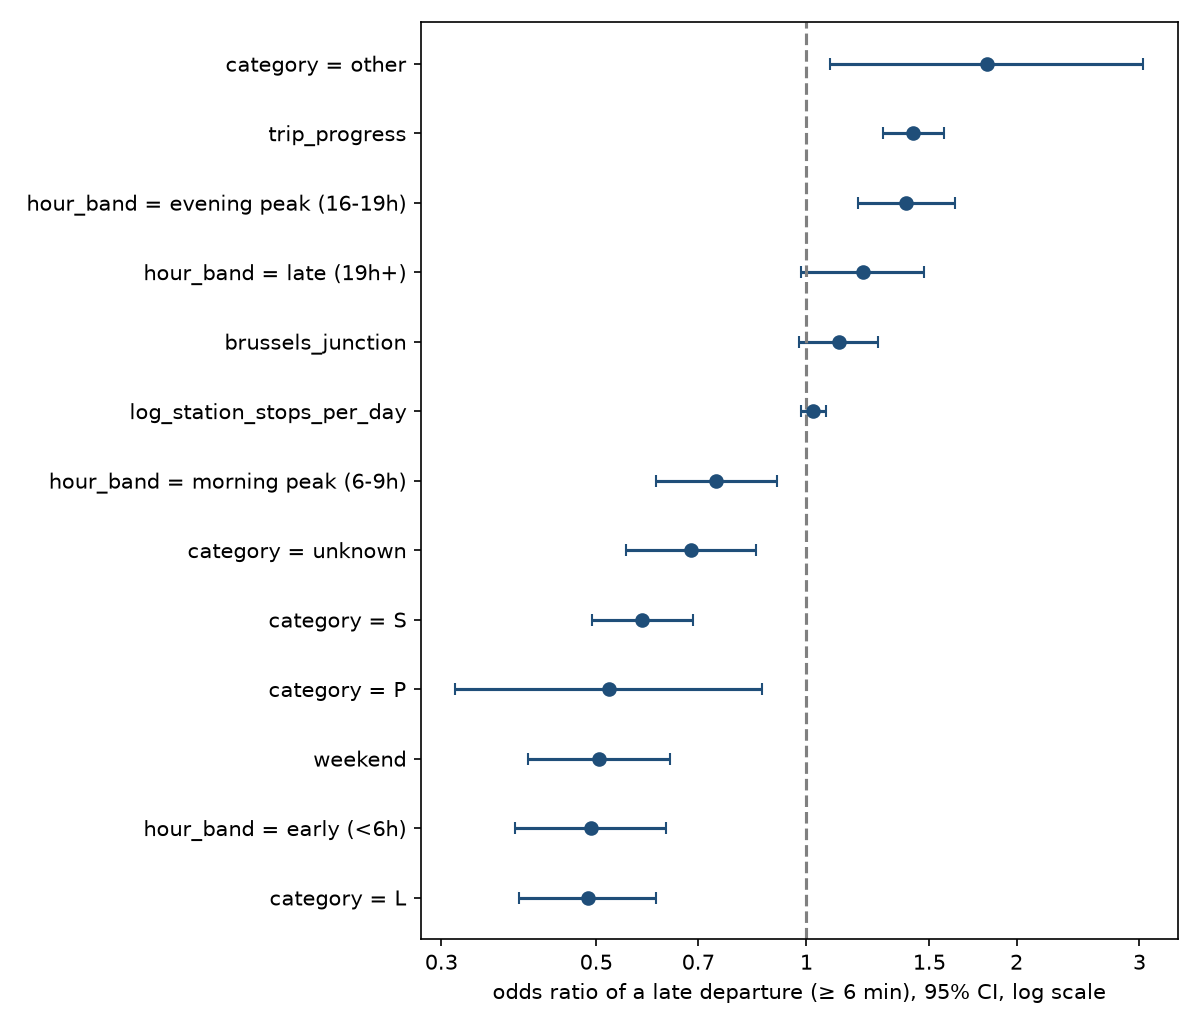
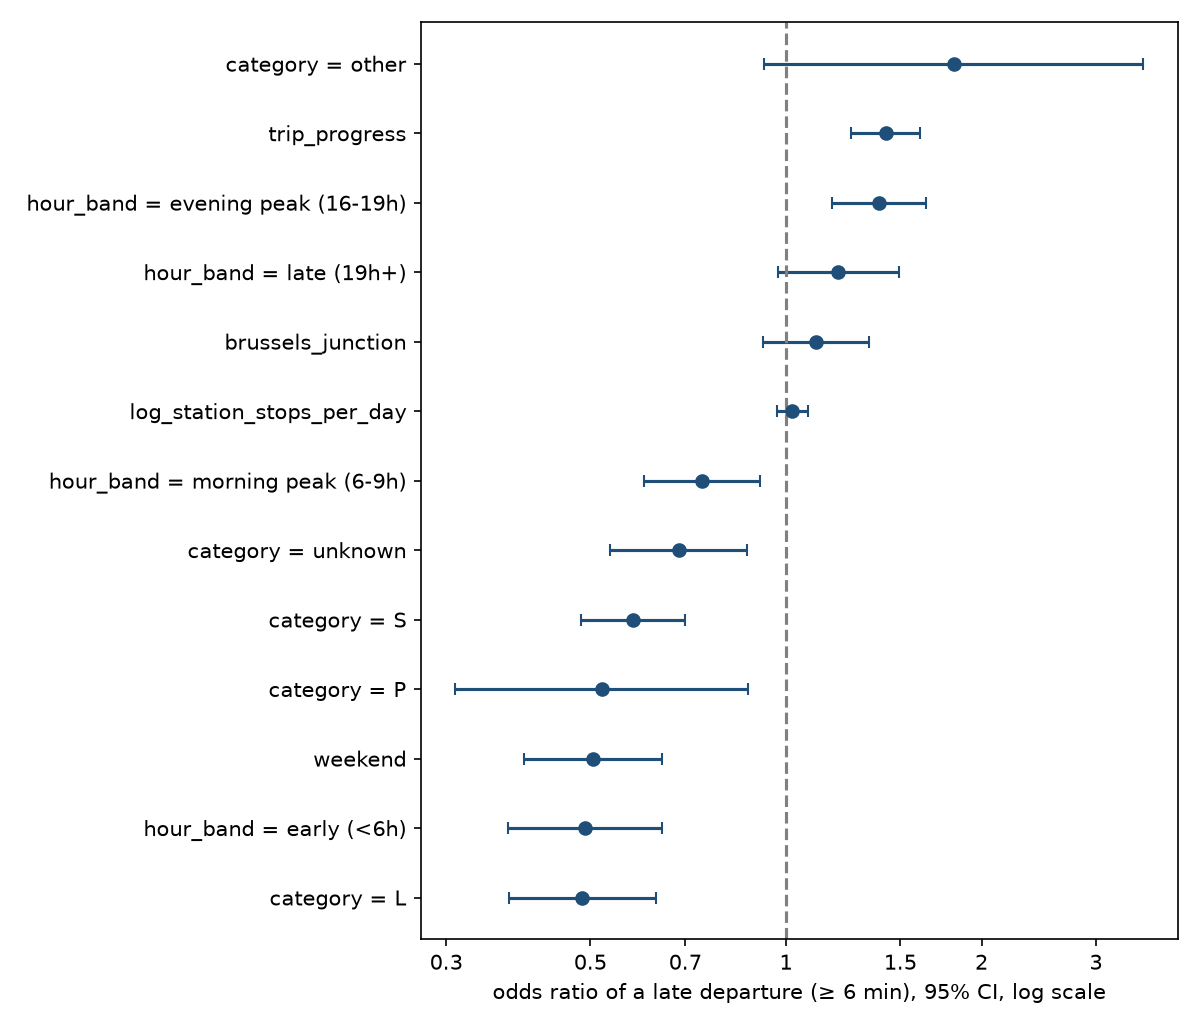
Cluster standard errors by trip and station
brussels_junction only varies across 5 stations, so clustering by trip alone gave intervals that were too narrow. The model now uses two-way clusters (trip and station). Brussels: odds ratio 1.11, 95% CI 0.92 to 1.34 (was 0.98 to 1.27), p = 0.26. Still no effect you can tell apart from 1. International/other is no longer significant. results/brussels_se_by_clusters.csv shows the SE under each clustering choice. Five station clusters is few, and the README says so.

diff --git a/src/model.py b/src/model.py
@@ -2,10 +2,11 @@
 
 The explanatory model is a logistic regression: each coefficient becomes an
 odds ratio ("this factor multiplies the odds of a late departure by X"), with
-a confidence interval. Stops of the same train are not independent (a train
-late at one station is usually late at the next), so standard errors are
-clustered by run; treating 99k stops as 99k independent draws would make every
-interval far too narrow.
+a confidence interval. Stops aren't independent. A train late at one station
+is usually late at the next, and stops at one station share its tracks and
+its crowds. So standard errors are clustered two ways, by run and by station.
+Treating 97k stops as 97k independent draws would make every interval far too
+narrow.
 
 A gradient-boosted model is fitted on the same variables only as a yardstick:
 if it predicts much better, the readable model is missing structure.
@@ -35,12 +36,27 @@ PLANNING_FEATURES = ["hour_band", "weekend", "category", "brussels_junction",
                      "log_station_stops_per_day", "trip_progress"]
 
 
-def fit_logit(df: pd.DataFrame, formula: str, cluster: str | None = "run_id"):
-    """Fit a logistic regression, clustering standard errors by `cluster`."""
+# `brussels_junction` only changes between stations, and only 5 stations have
+# it. Clustering by run alone ignores that, so its interval came out too narrow.
+TWO_WAY = ("run_id", "station_id")
+
+
+def fit_logit(df: pd.DataFrame, formula: str,
+              cluster: str | tuple[str, ...] | None = TWO_WAY):
+    """Fit a logistic regression with standard errors clustered by `cluster`.
+
+    One column name gives one-way clusters. Two names give two-way clusters:
+    statsmodels takes a 2-column `groups` array for that. None gives the naive
+    (independent stops) errors.
+    """
     model = smf.logit(formula, data=df)
     if cluster is None:
         return model.fit(disp=False)
-    groups = pd.factorize(df[cluster])[0]
+    cols = [cluster] if isinstance(cluster, str) else list(cluster)
+    if len(cols) > 2:
+        raise ValueError("statsmodels clusters on one or two columns, not more")
+    codes = [pd.factorize(df[c])[0] for c in cols]
+    groups = codes[0] if len(codes) == 1 else np.column_stack(codes)
     return model.fit(disp=False, cov_type="cluster", cov_kwds={"groups": groups})
 
 

diff --git a/run_analysis.py b/run_analysis.py
@@ -60,7 +60,7 @@ def main() -> None:
         (df.groupby(col)["late"].agg(late_rate="mean", stops="size")
            .to_csv(RESULTS / f"late_rate_by_{col}.csv"))
 
-    # 1. Explanatory model on all data, naive vs clustered standard errors.
+    # 1. Explanatory model on all data, naive vs two-way clustered errors.
     naive = model.fit_logit(df, model.PLANNING_FORMULA, cluster=None)
     clustered = model.fit_logit(df, model.PLANNING_FORMULA)
     or_naive = model.odds_ratio_table(naive)
@@ -69,6 +69,22 @@ def main() -> None:
     se_ratio = (clustered.bse / naive.bse).drop("Intercept")
     se_ratio.rename("clustered_se_over_naive_se").to_csv(RESULTS / "se_inflation.csv")
     facts["se_inflation_median"] = round(float(se_ratio.median()), 2)
+
+    # How much the Brussels interval depends on the clusters. Its variable only
+    # changes between stations, so clustering by run alone was too optimistic.
+    # Day clusters are shown but not trusted: 12 days is too few.
+    choices = {"naive": None, "run": "run_id", "station": "station_id",
+               "run + station": model.TWO_WAY, "day": "service_date"}
+    rows = {}
+    for name, cluster in choices.items():
+        fit = clustered if cluster == model.TWO_WAY else model.fit_logit(
+            df, model.PLANNING_FORMULA, cluster=cluster)
+        row = model.odds_ratio_table(fit).loc["brussels_junction"]
+        rows[name] = {"se": fit.bse["brussels_junction"], **row.to_dict()}
+    pd.DataFrame(rows).T.rename_axis("clusters").round(4).to_csv(
+        RESULTS / "brussels_se_by_clusters.csv")
+    facts["brussels_junction_stations"] = int(
+        df.loc[df["brussels_junction"] == 1, "station_id"].nunique())
 
     # Sensitivity 1: only stops whose last snapshot came after the planned
     # departure, i.e. a delay observed rather than announced.

diff --git a/tests/test_prepare.py b/tests/test_prepare.py
@@ -1,6 +1,8 @@
 """Tests for the stop-event reconstruction: the steps that decide what a row is."""
 
+import numpy as np
 import pandas as pd
+import statsmodels.formula.api as smf
 import pytest
 
 from src import model, prepare
@@ -95,3 +97,31 @@ def test_booster_refuses_uncast_text_features():
 def test_readable_term_names():
     assert model._readable("C(category, Treatment('IC'))[T.L]") == "category = L"
     assert model._readable("weekend") == "weekend"
+
+
+def _clustered_data():
+    rng = np.random.default_rng(0)
+    n = 600
+    df = pd.DataFrame({"run_id": rng.integers(0, 60, n).astype(str),
+                       "station_id": rng.integers(0, 12, n).astype(str),
+                       "x": rng.normal(size=n)})
+    df["late"] = (rng.random(n) < 1 / (1 + np.exp(1 - 0.5 * df["x"]))).astype(int)
+    return df
+
+
+def test_default_errors_are_clustered_by_run_and_station():
+    df = _clustered_data()
+    fit = model.fit_logit(df, "late ~ x")
+    groups = np.column_stack([pd.factorize(df["run_id"])[0],
+                              pd.factorize(df["station_id"])[0]])
+    by_hand = smf.logit("late ~ x", data=df).fit(
+        disp=False, cov_type="cluster", cov_kwds={"groups": groups})
+    assert fit.cov_kwds["groups"].shape == (len(df), 2)
+    assert np.allclose(fit.bse, by_hand.bse)
+
+
+def test_one_way_clusters_still_work_and_three_are_refused():
+    df = _clustered_data()
+    assert model.fit_logit(df, "late ~ x", cluster="run_id").cov_kwds["groups"].ndim == 1
+    with pytest.raises(ValueError):
+        model.fit_logit(df, "late ~ x", cluster=("run_id", "station_id", "x"))

diff --git a/README.md b/README.md
@@ -31,10 +31,11 @@ Two traps decide every number downstream, and both are tested in
 
 ## Method
 
-- **Logistic regression with standard errors clustered by train run.** Stops of
-  one train are correlated (a late train stays late), so treating 97k stops as
-  independent understates every interval: clustered standard errors are
-  **2.6× wider** than the naive ones (median over terms).
+- **Logistic regression with standard errors clustered two ways, by train run
+  and by station.** Stops of one train are correlated (a late train stays
+  late), and so are stops at one station. Treating 97k stops as independent
+  understates every interval: the clustered standard errors are **2.7× wider**
+  than the naive ones (median over terms).
 - **Two sensitivity analyses:** a fixed effect per day (absorbs weather and
   incidents), and only stops whose delay was observed after departure.
 - **Temporal hold-out:** fit on 27 Jul – 3 Aug, score on 4 – 7 Aug.
@@ -48,19 +49,25 @@ Odds ratios against a daytime intercity stop on a weekday, outside Brussels
 
 | Factor | Odds ratio | 95% CI |
 |---|---|---|
-| Evening peak (16–19h) | **1.39** | 1.19 – 1.63 |
-| Morning peak (6–9h) | 0.74 | 0.61 – 0.91 |
-| Local train (L) vs IC | 0.49 | 0.39 – 0.61 |
-| International / other | 1.81 | 1.08 – 3.04 |
-| Position along the trip (start → end) | **1.42** | 1.29 – 1.57 |
-| Brussels North–South junction | 1.11 | 0.98 – 1.27 |
-| Station size (per e-fold of daily stops) | 1.02 | 0.98 – 1.07 |
+| Evening peak (16-19h) | **1.39** | 1.18 to 1.64 |
+| Morning peak (6-9h) | 0.74 | 0.61 to 0.91 |
+| Local train (L) vs IC | 0.49 | 0.37 to 0.63 |
+| International / other | 1.81 | 0.93 to 3.55 |
+| Position along the trip (start → end) | **1.42** | 1.26 to 1.61 |
+| Brussels North-South junction | 1.11 | 0.92 to 1.34 |
+| Station size (per e-fold of daily stops) | 1.02 | 0.97 to 1.08 |
 
 ![odds ratios](figures/odds_ratios_planning.png)
 
 - **The Brussels junction's excess is confounding.** Raw: 10.1% late against
-  7.4% elsewhere. Controlled for hour and train type, the effect is not
-  distinguishable from zero.
+  7.4% elsewhere (odds ratio 1.40). Controlled for hour and train type, it
+  drops to 1.11 and isn't distinguishable from 1 (no effect, p = 0.26).
+- **The Brussels interval depends on the clusters.** `brussels_junction` only
+  changes between stations, and only 5 stations have it. Clustered by run
+  alone, its standard error was 0.066 and the interval 0.98 to 1.27. By station
+  it's 0.084, by run and station 0.095, which gives the 0.92 to 1.34 above
+  (`results/brussels_se_by_clusters.csv`). Day clusters are in that file but not
+  trusted: 12 days is too few.
 - **Delay accumulates along the trip**, and the evening peak is the riskiest
   window. The morning peak is *less* risky than daytime: summer holidays,
   so this is not expected to hold in term time.
@@ -84,11 +91,19 @@ Twelve summer days, one weekend; no incident, weather or connection data; trip
 position is measured over the 598 polled stations only; 13% of stops have no
 train category in the static GTFS; correlation, not causation.
 
+The Brussels interval is the shakiest number here. Clustered standard errors get
+unreliable with few clusters (Cameron and Miller, 2015), and only 5 stations
+carry the Brussels effect. A wild cluster bootstrap would be the cleaner
+test. It isn't run here: with a logit and 5 treated stations it's not simple,
+and it can still mislead (MacKinnon and Webb, 2017). So read 0.92 to 1.34 as
+rough. The conclusion doesn't lean on it, though: the narrowest clustered
+version (by run only) already contains 1.
+
 ## Run it
 
 ```bash
 python -m venv .venv && .venv/bin/pip install -r requirements.txt
-.venv/bin/python -m pytest -q          # 14 tests
+.venv/bin/python -m pytest -q          # 16 tests
 .venv/bin/python run_analysis.py [DATA_DIR]   # default ../railpulse-genai/data
 ```
 
